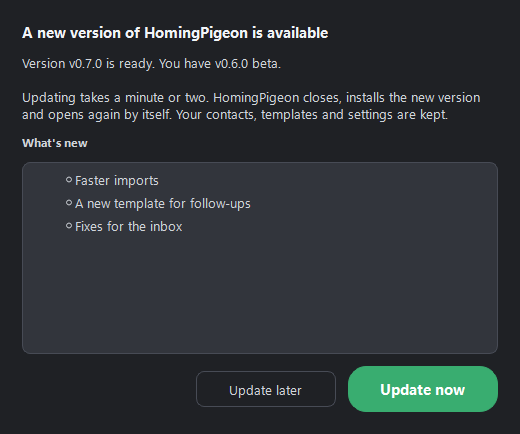
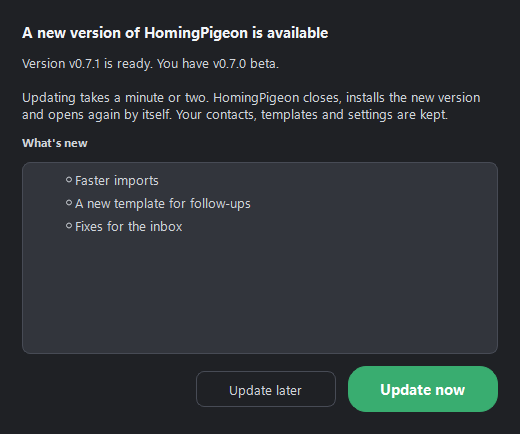
README: v0.7.0 features, languages and new screenshots
Screenshots re-rendered with an inbox-ready demo message, plus Home in Arabic
(right to left) and Settings in German with the language choice.

Changed region(s): [[0.1846, 0.1198, 0.5231, 0.1797]]

diff --git a/tools/take_screenshots.py b/tools/take_screenshots.py
@@ -58,21 +58,38 @@ def fill_demo_data() -> None:
     db.execute_many("INSERT INTO contacts (email, company, person, extra_json, source_file, "
                     "imported_at, valid, risk_flags) VALUES (?, ?, ?, ?, ?, ?, ?, ?)", rows)
 
+    # Written the way the built-in examples are: short, personal, no links, one
+    # question, unsubscribe line off. That is what scores well and reaches the
+    # main inbox, so it is what the My message screenshot shows.
+    db.set_setting("unsubscribe_note", False)
+    db.set_setting("attach_mode", "none")
     set_id = db.execute("INSERT INTO template_sets (name, signature_html, created_at) VALUES (?, ?, ?)",
-                        ("Autumn outreach", "<p>Jamie Reed<br>Sparrow Supplies</p>", db.now()))
+                        ("Autumn outreach",
+                         "Jamie Reed\nFounder, Sparrow Supplies\nPhone: +44 113 496 0000\n"
+                         "12 Mill Street, Leeds, UK", db.now()))
     db.set_setting("template_set_id", set_id)
-    for position, text in enumerate(["Packaging for {{Company}}?", "A quick idea for {{Company}}",
-                                     "{{FirstName}}, eco packaging samples"]):
+    for position, text in enumerate(["{Quick question|A question} about {{Company}}",
+                                     "{{FirstName}}, {a quick question|one question} for you",
+                                     "Packaging for the team at {{Company}}"]):
         db.execute("INSERT INTO subjects (set_id, text, position) VALUES (?, ?, ?)", (set_id, text, position))
     bodies = [
-        ("Short and friendly",
-         "<p>Hi {{FirstName}},</p><p>I run Sparrow Supplies, a small team making compostable "
-         "packaging for independent shops like {{Company}}. Would a free box of samples be "
-         "useful?</p><p>Happy to send some over this week.</p>"),
-        ("With a question",
-         "<p>Hello {{FirstName}},</p><p>Do you still wrap orders at {{Company}} in plastic? We "
-         "make plastic-free packaging that costs about the same, and I'd love to send you a few "
-         "samples to try.</p>"),
+        ("Short and friendly", "\n\n".join([
+            "{Hi|Hello} {{FirstName}},",
+            "I came across {{Company}} while looking at independent businesses in {{City}}, and "
+            "I wanted to get in touch personally.",
+            "I run Sparrow Supplies, a small team making compostable packaging for shops like "
+            "yours. Most of the people we work with came to us because plastic wrapping was "
+            "costing them more than it should, in money and in customer goodwill.",
+            "Would it be useful if I posted a few samples over to you next week?",
+            "{Thanks|Many thanks},"])),
+        ("With a question", "\n\n".join([
+            "{Hi|Hello} {{FirstName}},",
+            "I hope you do not mind me writing to you directly. I work at Sparrow Supplies, "
+            "where we make plastic-free packaging for businesses like {{Company}}.",
+            "A cafe similar to yours told us recently that switching away from plastic took far "
+            "more of their time than it should. We sorted that out for them within a few weeks.",
+            "Is that something you are thinking about at {{Company}} as well?",
+            "{Best wishes|Kind regards},"])),
     ]
     for position, (name, html) in enumerate(bodies):
         db.execute("INSERT INTO bodies (set_id, name, html, position) VALUES (?, ?, ?, ?)",
@@ -182,7 +199,7 @@ def main() -> int:
             from app.ui.widgets.update_dialog import UpdateDialog
 
             release = updater.Release(
-                tag="v0.7.0", page_url=f"{config.REPO_URL}/releases",
+                tag="v0.7.1", page_url=f"{config.REPO_URL}/releases",
                 notes="* Faster imports\n* A new template for follow-ups\n* Fixes for the inbox")
             updater.can_update_itself = lambda _release=None: True   # show the installed wording
             dialog = UpdateDialog(window, release)
@@ -194,6 +211,30 @@ def main() -> int:
             dialog.close()
         window.close()
         settle(200)
+
+    # The same app in other languages: Arabic reads right to left
+    from app import i18n
+
+    db.set_setting("appearance", "Dark")
+    theme.apply_preferences()
+    app.setStyleSheet(theme.stylesheet())
+    for code, key, name in (("ar", "dashboard", "home-arabic"), ("de", "settings", "settings-german")):
+        i18n.set_language(code)
+        app.setLayoutDirection(Qt.LayoutDirection.RightToLeft if i18n.is_rtl()
+                               else Qt.LayoutDirection.LeftToRight)
+        window = MainWindow()
+        window.resize(*SIZE)
+        window.show()
+        settle(1200)
+        window.show_page(key)
+        settle(800)
+        path = OUT / f"{name}.png"
+        window.grab().save(str(path))
+        print(f"saved {path.relative_to(ROOT)}")
+        window.close()
+        settle(200)
+    i18n.set_language("en")
+    app.setLayoutDirection(Qt.LayoutDirection.LeftToRight)
 
     db.close()
     return 0

diff --git a/README.md b/README.md
@@ -14,8 +14,13 @@ correctly, cleans your contact list before you send, makes every message slightl
 sends at a human pace, and quietly removes addresses that bounce. It runs on your own computer,
 and your contacts never leave it.
 
-**Download:** [latest release](../../releases/latest) · **Version:** 0.6.0 (free beta) ·
-**Works on:** Windows, Mac and Linux
+**New in 0.7.0:** the app in five languages (Arabic reads right to left), a spam score that
+reads the finished email and tells you whether it will land in the main inbox, Gmail's
+Promotions tab or spam, and example messages written to reach the main inbox.
+
+**Download:** [latest release](../../releases/latest) · **Version:** 0.7.0 (free beta) ·
+**Works on:** Windows, Mac and Linux · **Languages:** English, العربية, Deutsch, Español,
+Français
 
 ![The HomingPigeon dashboard: emails sent today, sendable contacts, replies and bounce rate, sending health checks, the current campaign and recent activity](docs/screenshots/home-dark.png)
 
@@ -79,14 +84,16 @@ and your contacts never leave it.
 
 | | |
 |---|---|
-| ![The Contacts page listing imported contacts with company, contact person, status, source file and extra spreadsheet columns](docs/screenshots/contacts-dark.png) | ![The Templates page previewing one personalised email next to its spam score of 82 and advice for improving it](docs/screenshots/templates-dark.png) |
-| **My contacts.** Your imported list, searchable and sortable, with every column from your spreadsheet. | **My message.** A live preview for a real contact, next to the spam score and what to fix. |
+| ![The Contacts page listing imported contacts with company, contact person, status, source file and extra spreadsheet columns](docs/screenshots/contacts-dark.png) | ![The My message page previewing one personalised email next to its spam score of 97, the estimate that it will land in the main inbox, and advice](docs/screenshots/templates-dark.png) |
+| **My contacts.** Your imported list, searchable and sortable, with every column from your spreadsheet. | **My message.** The finished email for a real contact, its spam score, where it will land (main inbox, Promotions or spam) and what to change. |
 | ![The Sent emails page with a table of every email sent, its outcome and the subject used](docs/screenshots/sent-dark.png) | ![The My inbox page with two replies and one bounce, each labelled](docs/screenshots/inbox-dark.png) |
 | **Sent emails.** Every message that went out, and what came back. Exports to Excel. | **My inbox.** Replies, bounces and opt-outs, readable inside the app. |
 | ![The Deliverability page building an SPF record from a list of email services](docs/screenshots/deliverability-dark.png) | ![The Send page with its before-you-send checklist, counters and the Start Emailing button](docs/screenshots/send-dark.png) |
 | **Domain check.** Checks your domain and writes SPF, DMARC and DKIM records for you. | **Send emails.** A checklist first, then sending at a human pace that you can pause any time. |
 | ![The update popup saying a new version is available, with Update later and Update now buttons](docs/screenshots/update-popup.png) | ![The dashboard in the light theme](docs/screenshots/home-light.png) |
 | **Automatic updates.** One click to update; the app reopens by itself. | **Light theme.** Or dark, or match your computer, at five text sizes. |
+| ![The dashboard in Arabic, with the whole layout mirrored to read from right to left](docs/screenshots/home-arabic.png) | ![The Settings page in German, with the language choice at the top: English, Arabic, German, Spanish and French](docs/screenshots/settings-german.png) |
+| **Arabic, right to left.** The whole app mirrors to read naturally in Arabic. | **Five languages.** Pick yours in Settings; every page changes straight away. |
 
 ---
 
@@ -94,7 +101,7 @@ and your contacts never leave it.
 
 You don't need to know anything about coding.
 
-1. Go to the **[Releases](../../releases/latest)** page and download **`HomingPigeon-v0.6.0.zip`**.
+1. Go to the **[Releases](../../releases/latest)** page and download **`HomingPigeon-v0.7.0.zip`**.
 2. Right-click the downloaded file → **Extract All...** → **Extract**.
 3. In the folder that opens, double-click **`HomingPigeon Setup.exe`**.
 4. Click **Install**. Setup shows you every step while it works: it downloads what the app needs
@@ -165,6 +172,14 @@ installs it (Linux). From then on, the Start file opens the app straight away.
 
 The very first time it opens, everything is empty. Go to the **Start here** page inside the app
 and follow it from the top. It walks you through every step and ticks them off as you go.
+
+**Your language.** The app starts in your computer's language if it is English, Arabic, German,
+Spanish or French. Change it any time in **Settings → Language**.
+
+**Getting into the main inbox.** On **My message**, press **? How to write your email** for the
+short guide to staying out of spam and Gmail's Promotions tab, or **Show me an example** to start
+from a message already written that way. **Preview & score** tells you where each email is likely
+to land.
 
 **Everything you type is saved automatically.** Close the app and open it again, and your email
 settings, templates and contacts are all still there. You only set it up once.
@@ -311,10 +326,10 @@ Then in the app set the server to `localhost`, port `1025`, security **None (tes
 
 ### Making a release
 
-1. Change `APP_VERSION` in `app/config.py` (for example to `"v0.6.0 beta"`), commit and push.
+1. Change `APP_VERSION` in `app/config.py` (for example to `"v0.7.0 beta"`), commit and push.
 2. On GitHub: **Releases → Draft a new release**. Under **Choose a tag**, type the version
-   (`v0.6.0`) and pick **Create new tag on publish**. Give it a title and notes, then **Publish**.
-3. GitHub Actions builds `HomingPigeon-v0.6.0.zip` and attaches it to the release by itself
+   (`v0.7.0`) and pick **Create new tag on publish**. Give it a title and notes, then **Publish**.
+3. GitHub Actions builds `HomingPigeon-v0.7.0.zip` and attaches it to the release by itself
    (about 5 minutes, watch progress in the **Actions** tab).
 
 Installed copies notice the new release the next time they open. Until the zip is attached,
@@ -322,7 +337,7 @@ their popup's **Update now** opens the release page instead of updating, so noth
 the build is still running.
 
 To build it on your own PC instead: `python tools/build_installer.py`, then drag
-`dist\HomingPigeon-v0.6.0.zip` into the release's **Attach binaries** box.
+`dist\HomingPigeon-v0.7.0.zip` into the release's **Attach binaries** box.
 
 ## A note on DKIM
 
